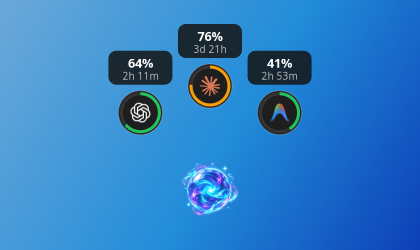
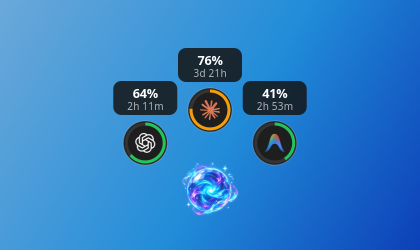
💄 style: 부채꼴을 오브에 더 붙이고 이름표 간격 조정

Changed region(s): [[0.2476, 0.084, 0.7429, 0.672]]

diff --git a/tests/test_placement.py b/tests/test_placement.py
@@ -27,18 +27,18 @@ class PlacementTest(unittest.TestCase):
         self.assertLessEqual(x + 440, 3840 + 1920)
 
     def test_fan_opens_upward_when_there_is_room(self):
-        self.assertEqual([round(math.degrees(angle)) for angle in fan_angles((4800, 1000), AREA)], [132, 90, 48])
+        self.assertEqual([round(math.degrees(angle)) for angle in fan_angles((4800, 1000), AREA)], [144, 90, 36])
 
     def test_fan_turns_inward_only_as_much_as_needed_in_corner(self):
         angles = [math.degrees(angle) for angle in fan_angles((5708, 1008), AREA)]
         self.assertGreater(angles[1], 90)
         self.assertLess(angles[1], 153)
         for angle in angles:
-            x = 5708 + 104 * math.cos(math.radians(angle))
+            x = 5708 + 80 * math.cos(math.radians(angle))
             self.assertLessEqual(x + 32, 3840 + 1920)
 
     def test_two_agents_spread_evenly_around_top(self):
-        self.assertEqual([round(math.degrees(angle), 1) for angle in fan_angles((4800, 1000), AREA, count=2)], [111.0, 69.0])
+        self.assertEqual([round(math.degrees(angle), 1) for angle in fan_angles((4800, 1000), AREA, count=2)], [117.0, 63.0])
 
     def test_fan_opens_downward_near_top(self):
         self.assertEqual(round(math.degrees(fan_angles((4800, 60), AREA)[1])), -90)

diff --git a/agent_usage/widget.py b/agent_usage/widget.py
@@ -417,7 +417,7 @@ class Bubble(Gtk.Window):
         return menu
 
 
-def fan_angles(bubble_center, area, radius=104, item=(32, 62, 22), count=3, spread=42):
+def fan_angles(bubble_center, area, radius=80, item=(32, 62, 22), count=3, spread=54):
     """부채꼴 항목 각도(라디안, 수학 좌표). 위(아래쪽이 좁으면 아래)로 펼치고, 항목이 작업 영역 밖으로
     나가면 화면 가운데 쪽으로 필요한 만큼만 돌린다. item 은 (반너비, 위 여유, 아래 여유)다."""
     x, y = bubble_center
@@ -447,7 +447,7 @@ def fan_angles(bubble_center, area, radius=104, item=(32, 62, 22), count=3, spre
 
 
 class Fan(Gtk.Window):
-    RADIUS = 104
+    RADIUS = 80
     DISC = 22
     HALF = 210
     PILL = (64, 34)
